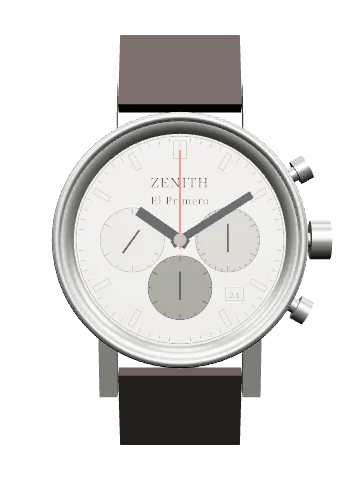
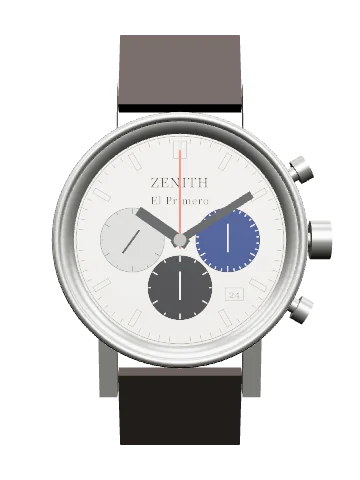
El Primero A386: the three registers in their real colours
Light grey at nine, blue at three, anthracite at six, as photographs of the watch show, with white hands and pale marks on the two dark registers. The Archive's line drawing is unchanged.

Changed region(s): [[0.3972, 0.4375, 0.7333, 0.6875]]

diff --git a/draw.js b/draw.js
@@ -306,10 +306,10 @@ function subs(w, g, o = {}) {
   for (const [pos, role] of d.subs) {
     if (CAL_ROLES.includes(role)) { s += calSub(w, g, pos, role, o); continue; }
     const [cx, cy] = P(pos * 30, off), tint = d.subTints ? d.subTints[pos] : null;
-    const cls = d.subDark ? 'tn2' : d.subLight ? 'p' : (d.dark ? 'tn' : 'p'), sty = tint != null ? `style="fill:var(--ink);fill-opacity:${tint}"` : '';
+    const cls = d.subDark ? 'tn2' : d.subLight ? 'p' : (d.dark ? 'tn' : 'p'), sty = tint != null ? `style="fill:var(--sf${pos}, var(--ink));fill-opacity:var(--so, ${tint})"` : ''; // the Workbench's dial picture can give each register its true colour; elsewhere it is a tint of the ink
     s += d.subSquare ? RC(cx - rs, cy - rs, 2 * rs, 2 * rs, cls, 0.9) : C(rs, cx, cy, 'p') + C(rs, cx, cy, cls, sty);
     const n = role === 'min30' ? 30 : 12;
-    if (!d.subSquare) for (let i = 0; i < n; i++) s += rad(i * 360 / n, rs - (i % (n / 6) ? 0.45 : 0.9), rs - 0.12, 't', cx, cy);
+    if (!d.subSquare) for (let i = 0; i < n; i++) s += rad(i * 360 / n, rs - (i % (n / 6) ? 0.45 : 0.9), rs - 0.12, 't sk' + pos, cx, cy);
     if (!o.noHands) s += `<g transform="translate(${cx},${cy})"><g ${role === 'sec' ? `data-hand="s" data-bps="${b}"` : ''}>${L(0, 0.8, 0, -rs * 0.82, 'hd')}</g>${C(0.32, 0, 0, 'k')}</g>`;
   }
   return s;
@@ -690,9 +690,10 @@ function face(w, real) {
   // A light dial can still carry a black bezel and dark registers (the Daytona): those keep the dark palette.
   const mixed = real && !w.dial.dark ? `${w.bezel && w.bezel.dark ? '.bzd .tn{fill:#121212;stroke:#2b2b2b}.bzd text{fill:#f0ede2}.bzd .t,.bzd .hair{stroke:#e9e6da}.bzd .bar{stroke:#e9e6da}.bzd .k{fill:#e9e6da}' : ''}${w.dial.subDark ? '.tn2{fill:#161616;stroke:#2b2b2b}' : ''}` : '';
   const gold = real && w.dial.gold ? '.nm,.cal,.dl{fill:#cfa13a}.hc{fill:#cfa13a;stroke:#4a3c16}.mw{fill:#1b2a55;stroke:#cfa13a;stroke-width:.08}.mn{fill:#e3c060;stroke:none}.t,.hair{stroke:#b08a34}.k{fill:#cfa13a}' : '';
+  const sf = real && w.dial.subFills ? 'svg{--so:1;' + Object.entries(w.dial.subFills).map(q => `--sf${q[0]}:${q[1][0]}`).join(';') + '}' + Object.entries(w.dial.subFills).filter(q => q[1][1]).map(q => `.sk${q[0]}{stroke:#ecece8}`).join('') : ''; // each register's colour, and pale marks on the dark ones
   const pinkHands = real && w.dial.goldHands ? '.hc{fill:#cf9a78;stroke:#5a3b2a}.mw{fill:#1b2a55;stroke:#5a3b2a;stroke-width:.08}.mn{fill:#e3c060;stroke:none}' : '';
   const g3 = real && w.dial.custom === 'gyro3' ? '.g3-base{fill:#050506;stroke:none}.g3-met{fill:#5d5f63;stroke:#2f3033;stroke-width:.08}.g3-streak{stroke:#9a9c9f;stroke-width:.07}.g3-rim{fill:#c98d6b;stroke:#5a3b2a;stroke-width:.06}.g3-hole{fill:#09090a}.g3-blue{fill:#0a1340;stroke:#c98d6b;stroke-width:.06}.g3-white{fill:#f2f0e9;stroke:#8a8a86;stroke-width:.05}.g3-ink{stroke:#1a1a1a}.g3-inkf{fill:#1a1a1a;font-family:Helvetica,Arial,sans-serif}.g3-gold{fill:#dba886;stroke:#5a3b2a;stroke-width:.04}.g3-star{fill:#d5dcff}.g3-day{fill:#e3e1da;stroke:none}.g3-steel{fill:#b9bbbd;stroke:#4a4c4f;stroke-width:.07}.g3-screw{fill:#2a55a8;stroke:#0d1f45;stroke-width:.06}.g3-teeth{stroke:#c9cbcd;stroke-width:.09}.g3-sun{fill:#dba886;stroke:none}.g3-ray{stroke:#b98a64;stroke-width:.06}.g3-wt{stroke:#eef0ff}.g3-txt{fill:#e6e6e6}' : '';
-  const s = `<style>${real ? (w.dial.dark ? REAL : REAL_LIGHT) : TECH}${mixed}${gold}${pinkHands}${g3}</style><circle r="${R}" fill="${real ? '#b5b5af' : '#EDE6D8'}"/><g class="bzd">${bezel(w, g)}</g>` + dial(w, g, { noHands: true });
+  const s = `<style>${real ? (w.dial.dark ? REAL : REAL_LIGHT) : TECH}${mixed}${gold}${pinkHands}${g3}${sf}</style><circle r="${R}" fill="${real ? '#b5b5af' : '#EDE6D8'}"/><g class="bzd">${bezel(w, g)}</g>` + dial(w, g, { noHands: true });
   // The dial is drawn once as a picture, so the date window is filled here with today's date; on the plates it is filled live.
   const today = new Date(), DAYS3 = ['SUN', 'MON', 'TUE', 'WED', 'THU', 'FRI', 'SAT'];
   const dated = s.replace(new RegExp('(data-date=""[^>]*>)', 'g'), `$1${today.getDate()}`).replace(new RegExp('(data-daydate=""[^>]*>)', 'g'), `$1${DAYS3[today.getDay()]} ${today.getDate()}`);

diff --git a/workbench/watches/el-primero-a386.js b/workbench/watches/el-primero-a386.js
@@ -14,8 +14,8 @@ export default {
   asset: {
     type: 'procedural',
     builder: 'round-chronograph',
-    note: 'Case and lugs are simplified. The blue register is rendered grey. The movement is laid out from the assembly photographs in Zenith’s technical booklet for calibre 3019 PHC: most wheel positions are measured from them; the escape wheel and pallets, and all sizes, heights, tooth counts and outlines, are estimated. Not a factory model or scan.',
-    params: { thickness: 12.6, lugToLug: 46, lugWidth: 19, movementDiameter: 29.3, beatsPerHour: 36000, calibre: '3019', escapeTeeth: 21, rotor: true, dustCover: false, bezelInsert: false, plate: 'steel', handKind: 'ink', chronoHand: 'red', subOffset: 0.46, dome: 2.6 }
+    note: 'Case and lugs are simplified. The movement is laid out from the assembly photographs in Zenith’s technical booklet for calibre 3019 PHC: most wheel positions are measured from them; the escape wheel and pallets, and all sizes, heights, tooth counts and outlines, are estimated. Not a factory model or scan.',
+    params: { thickness: 12.6, lugToLug: 46, lugWidth: 19, movementDiameter: 29.3, beatsPerHour: 36000, calibre: '3019', escapeTeeth: 21, rotor: true, dustCover: false, bezelInsert: false, plate: 'steel', handKind: 'ink', chronoHand: 'red', subHandKinds: { 3: 'white', 6: 'white', 9: 'ink' }, subOffset: 0.46, dome: 2.6 }
   },
   images: [],
 
@@ -64,7 +64,7 @@ export default {
       significance: 'The opposite choice from the Speedmaster, which puts its scale out on a wide bezel.', related: ['crystal', 'dial'] },
     { id: 'dial', name: 'Dial and registers', group: 'Exterior', status: 'D', anchor: [-8, -1, 2.4], face: 1,
       beginner: 'The white face with three small overlapping dials: running seconds on the left, stopwatch minutes on the right, stopwatch hours at the bottom.',
-      horologist: 'White lacquered dial with three overlapping registers in light grey (running seconds, 9), blue (30 minutes, 3) and anthracite (12 hours, 6), a date between 4 and 5 and a tachymeter on the flange. The model renders all three registers in greys.',
+      horologist: 'White lacquered dial with three overlapping registers in light grey (running seconds, 9), blue (30 minutes, 3) and anthracite (12 hours, 6), a date between 4 and 5 and a tachymeter on the flange. The model shows them in those colours, with white hands on the two dark registers; the exact shades are judged from photographs.',
       fn: 'Displays the time, the date and the chronograph’s elapsed minutes and hours.', material: 'Lacquered metal', location: 'Under the crystal, fixed to the movement.',
       significance: 'The three-colour overlap became Zenith’s signature and is still used on its chronographs.', related: ['hands', 'fourth', 'minute-recorder'] },
     { id: 'hands', name: 'Hands', group: 'Exterior', status: 'D', anchor: [3, 9, 3.1], face: 1,

diff --git a/workbench/model.js b/workbench/model.js
@@ -166,9 +166,9 @@ export function buildProcedural(watch, face, tex) {
   const hHour = hand(1.5 * HW, Lh, 2.7), hMin = hand(1.15 * HW, Lm, 2.95), hChr = hand(0.28, Lm * 1.05, 3.2, P.chronoHand || HAND);
   if (P.hands === 'mercedes') { hHour.add(at(mk(cyl(1.75, 0.14, 28), 'white'), 0, Lh * 0.62, 0)); for (let k = 0; k < 3; k++) { const sp = mk(new THREE.BoxGeometry(0.2, 1.75, 0.05), 'ink', { noEdges: true }); const a = k * Math.PI * 2 / 3; sp.position.set(-Math.sin(a) * 0.875, Lh * 0.62 + Math.cos(a) * 0.875, 0.1); sp.rotation.z = a; hHour.add(sp); } hChr.add(at(mk(cyl(0.8, 0.1, 18), 'white'), 0, Lm * 0.62, 0)); }
   hands.add(at(mk(cyl(0.95, 0.9, 20), CASE), 0, 0, 3.0));
-  const subHand = (x, y) => { const p = hand(0.26, 4.2, square ? 2.66 : 2.5, P.subHandKind || HAND); p.position.x = x; p.position.y = y; p.children[0].geometry.translate(0, -0.5, 0); return p; };
+  const subHand = (x, y, pos) => { const p = hand(0.26, 4.2, square ? 2.66 : 2.5, (P.subHandKinds && P.subHandKinds[pos]) || P.subHandKind || HAND); p.position.x = x; p.position.y = y; p.children[0].geometry.translate(0, -0.5, 0); return p; };
   const two = P.registers === 2; // two registers and no running seconds, as on the Calibre 11
-  const hSec = chrono ? (two ? new THREE.Group() : subHand(-sub, 0)) : P.subSeconds === 6 ? subHand(0, -sub) : hChr; if (chrono) { subHand(sub, 0); if (two) subHand(-sub, 0); else subHand(0, -sub); }
+  const hSec = chrono ? (two ? new THREE.Group() : subHand(-sub, 0, 9)) : P.subSeconds === 6 ? subHand(0, -sub, 6) : hChr; if (chrono) { subHand(sub, 0, 3); if (two) subHand(-sub, 0, 9); else subHand(0, -sub, 6); }
   if ((P.subSeconds || P.noSeconds) && !P.chronoCentre) hChr.visible = false; // a watch can have running seconds in a small dial and still carry a chronograph hand at the centre
   if (P.handsAt) hands.position.set(P.handsAt[0], P.handsAt[1], P.handsAt[2] || 0); // a time dial that is off centre
   assembly(hands, 13);

diff --git a/data.js b/data.js
@@ -126,7 +126,7 @@ window.WATCHES = [
 {
   id:'a386', brand:'Zenith', model:'El Primero', ref:'A386', year:'1969', span:'1969 – early 1970s', kind:'Chronograph',
   c:{shape:'round', d:38, t:[12.5,'n'], lug:[19,'n']},
-  bezel:{type:'plain', w:1.4}, dial:{dark:false, markers:'baton', flange:'tachy', date:4.5, subs:[[3,'min30'],[6,'hr12'],[9,'sec']], subBig:true, subTints:{3:.34,6:.6,9:.12}, text:['ZENITH','El Primero']},
+  bezel:{type:'plain', w:1.4}, dial:{dark:false, markers:'baton', flange:'tachy', date:4.5, subs:[[3,'min30'],[6,'hr12'],[9,'sec']], subBig:true, subTints:{3:.34,6:.6,9:.12}, subFills:{3:['#0f2452',1],6:['#16171a',1],9:['#a2a3a0',0]}, text:['ZENITH','El Primero']},
   hands:'baton', sec:'sub', chrono:true, crown:{pos:3}, pushers:'pump', strap:'leather',
   mv:{cal:'3019 PHC', type:'autochrono', vph:36000, jewels:31, wind:'Automatic, full rotor', size:'13 lignes', note:'Integrated automatic chronograph with column wheel, dividing the second into tenths.'},
   back:{type:'screw', note:'Detail not verified; shown plain.'},
